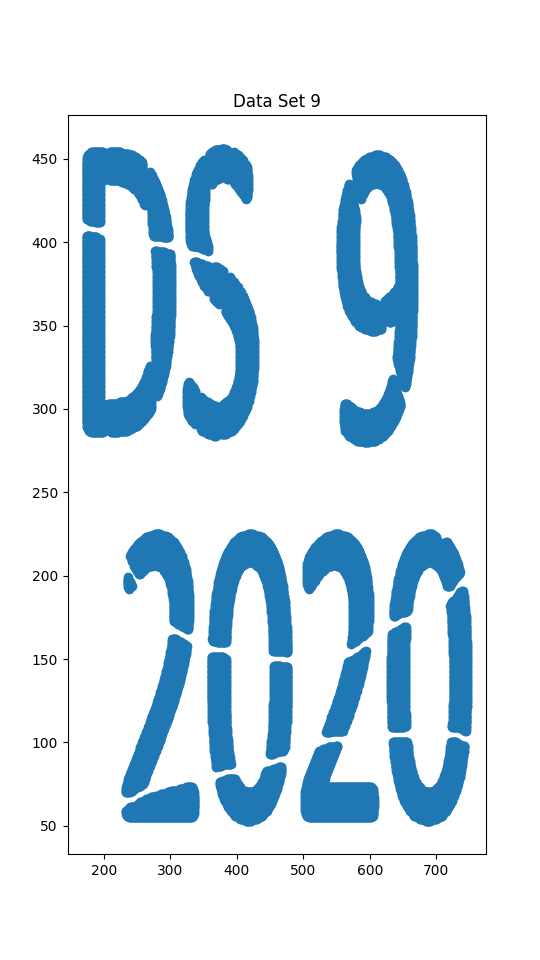
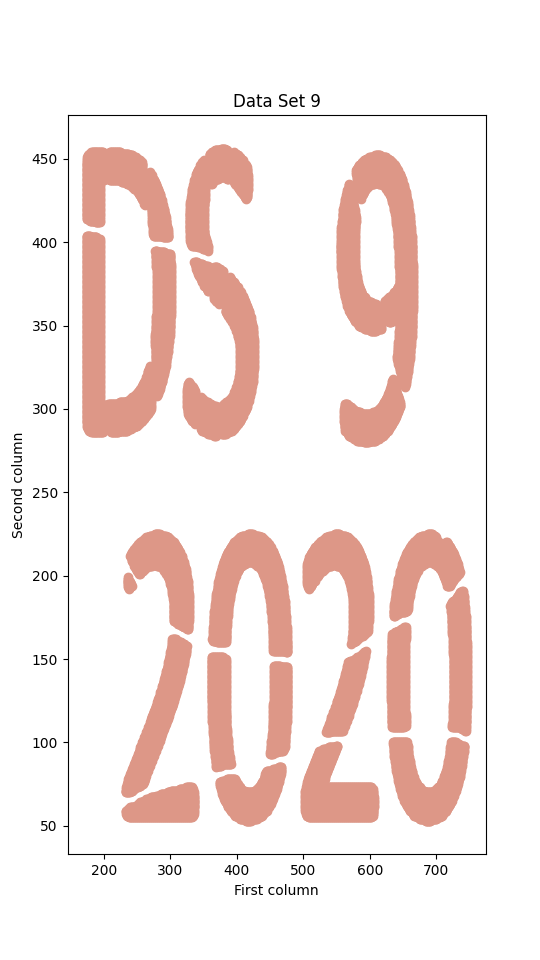
Edited color of picture

diff --git a/Lab2.py b/Lab2.py
@@ -1,3 +1,4 @@
+from matplotlib import colors
 import matplotlib.pyplot as plt
 import pandas as pd
 
@@ -5,5 +6,7 @@ array = pd.read_csv("DS9.txt", delimiter=' ',names=['x', 'y'])
 graphic = plt.figure(figsize=[5.4, 9.6])
 ax = graphic.add_subplot(111)
 ax.set_title("Data Set 9")
-ax.scatter(array.y, array.x)
+ax.set_ylabel("Second column")
+ax.set_xlabel("First column")
+ax.scatter(array.y, array.x, c=["#DD9787"])
 plt.show()
